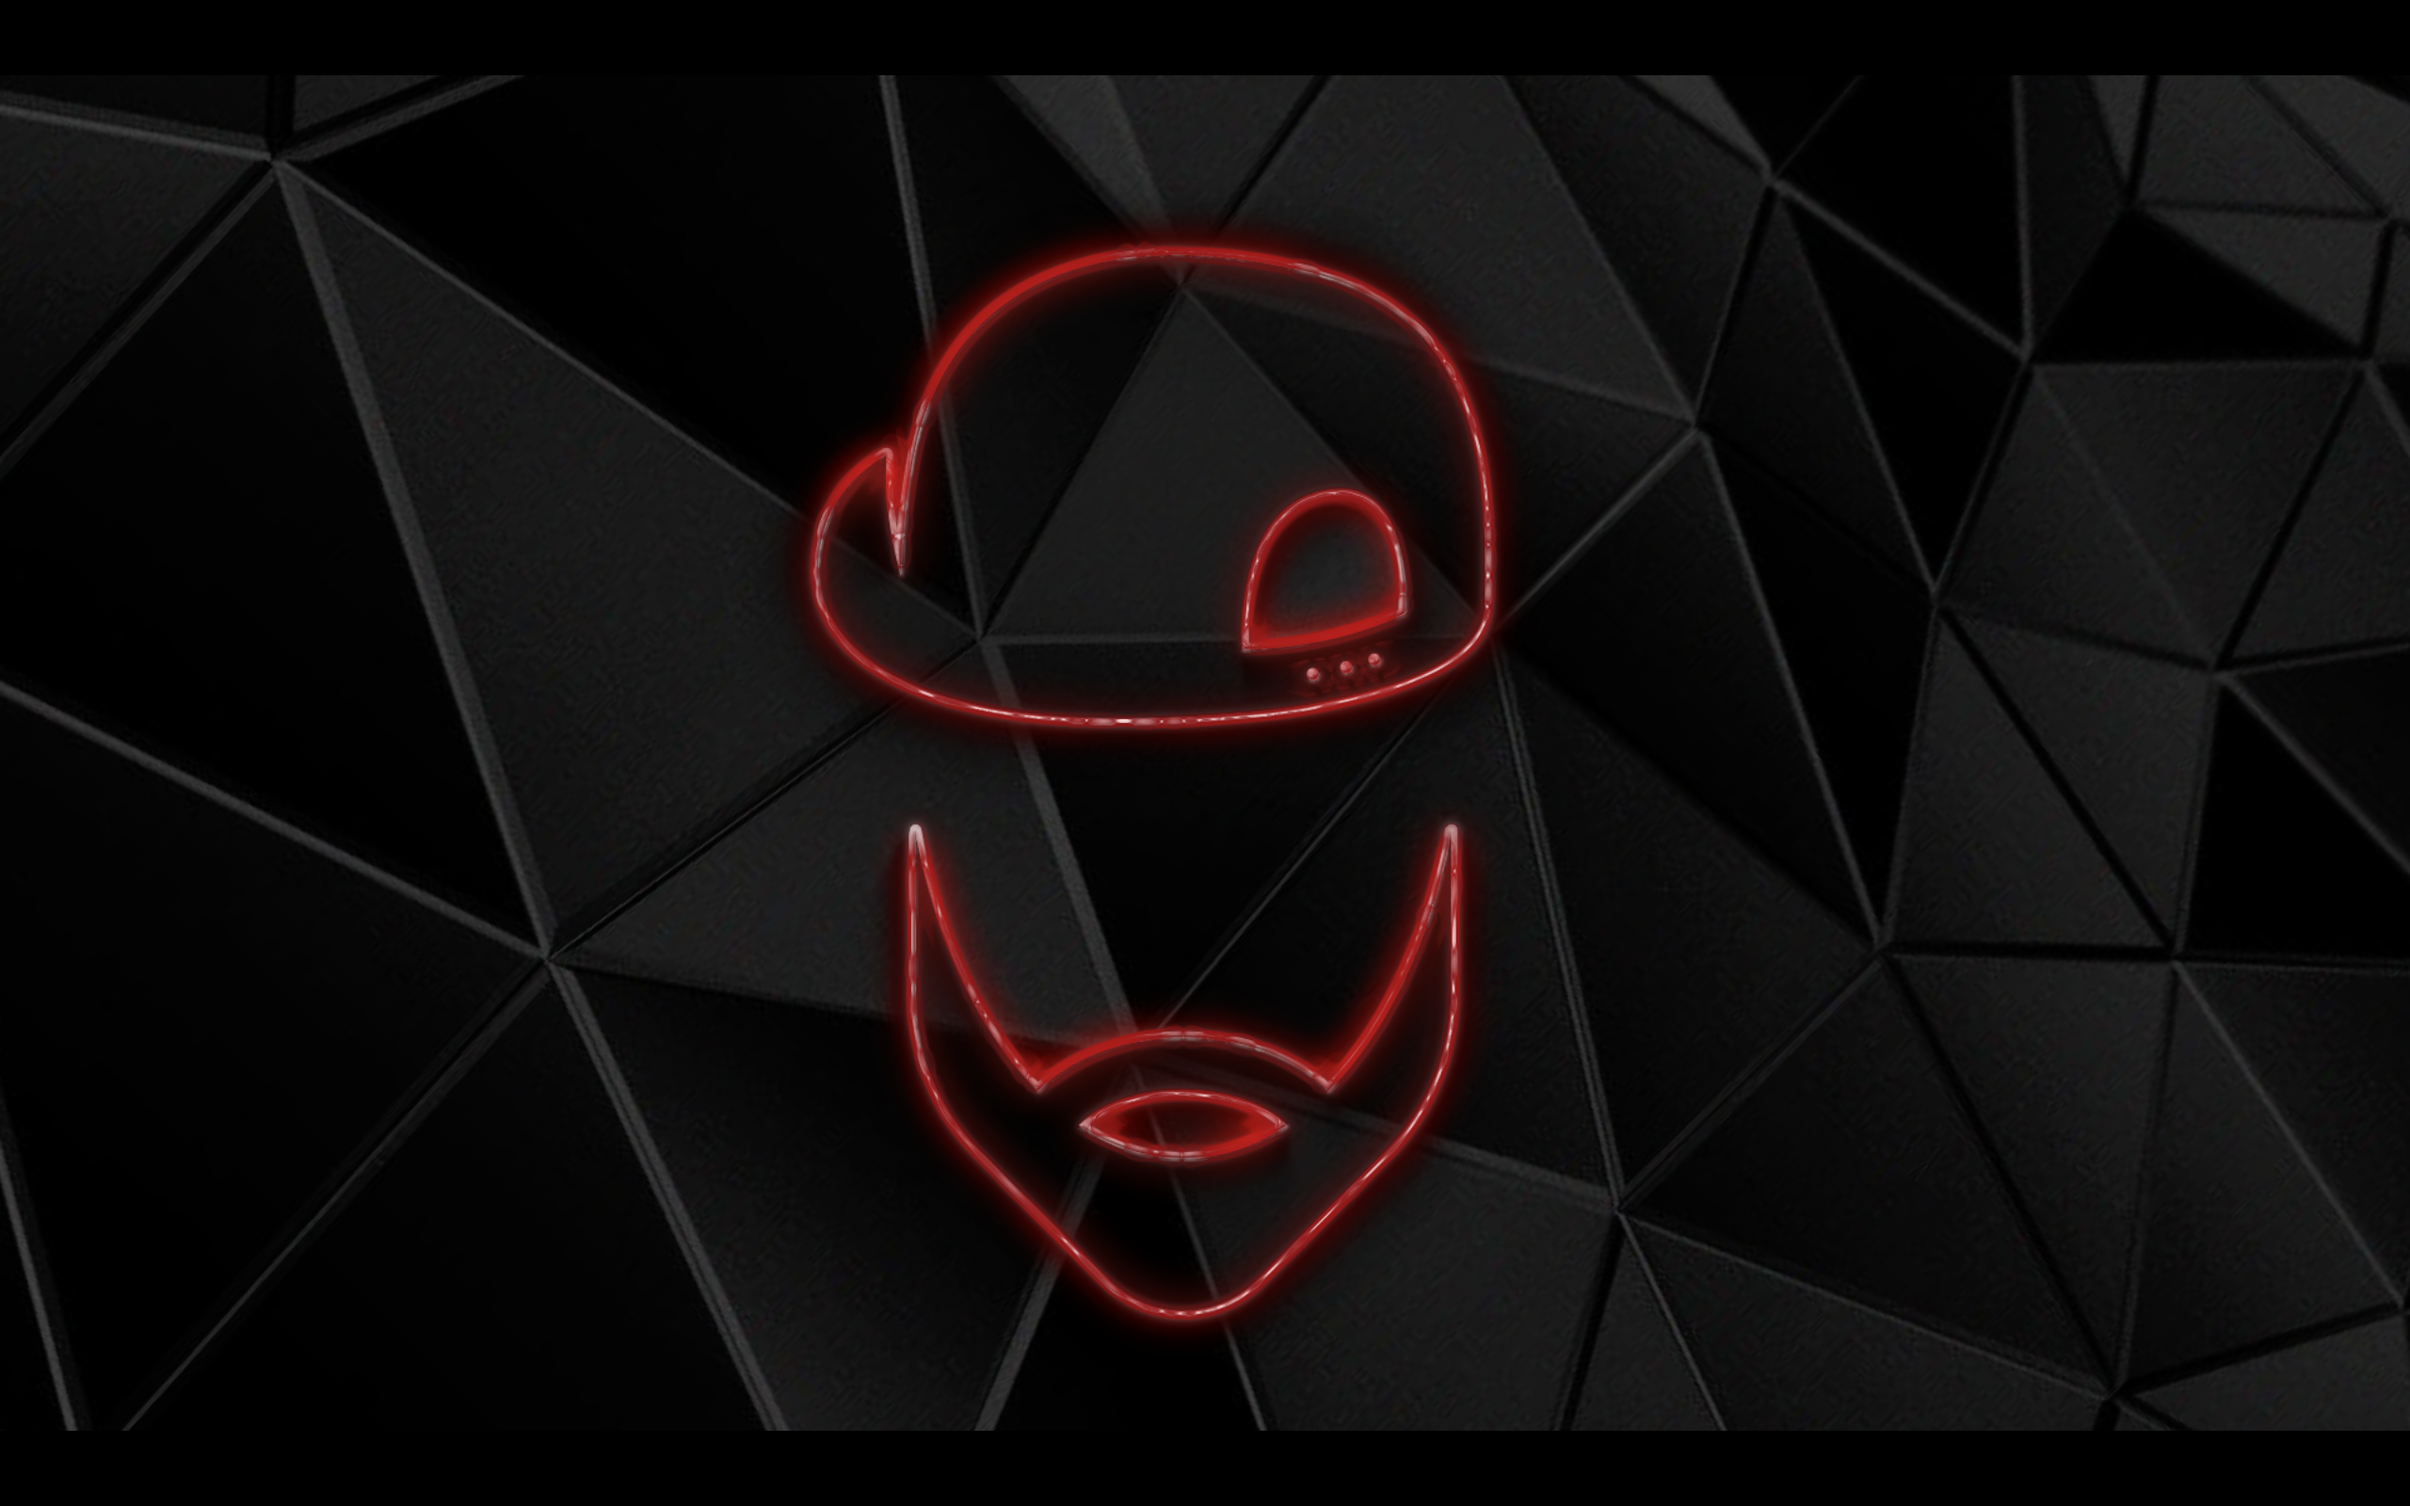
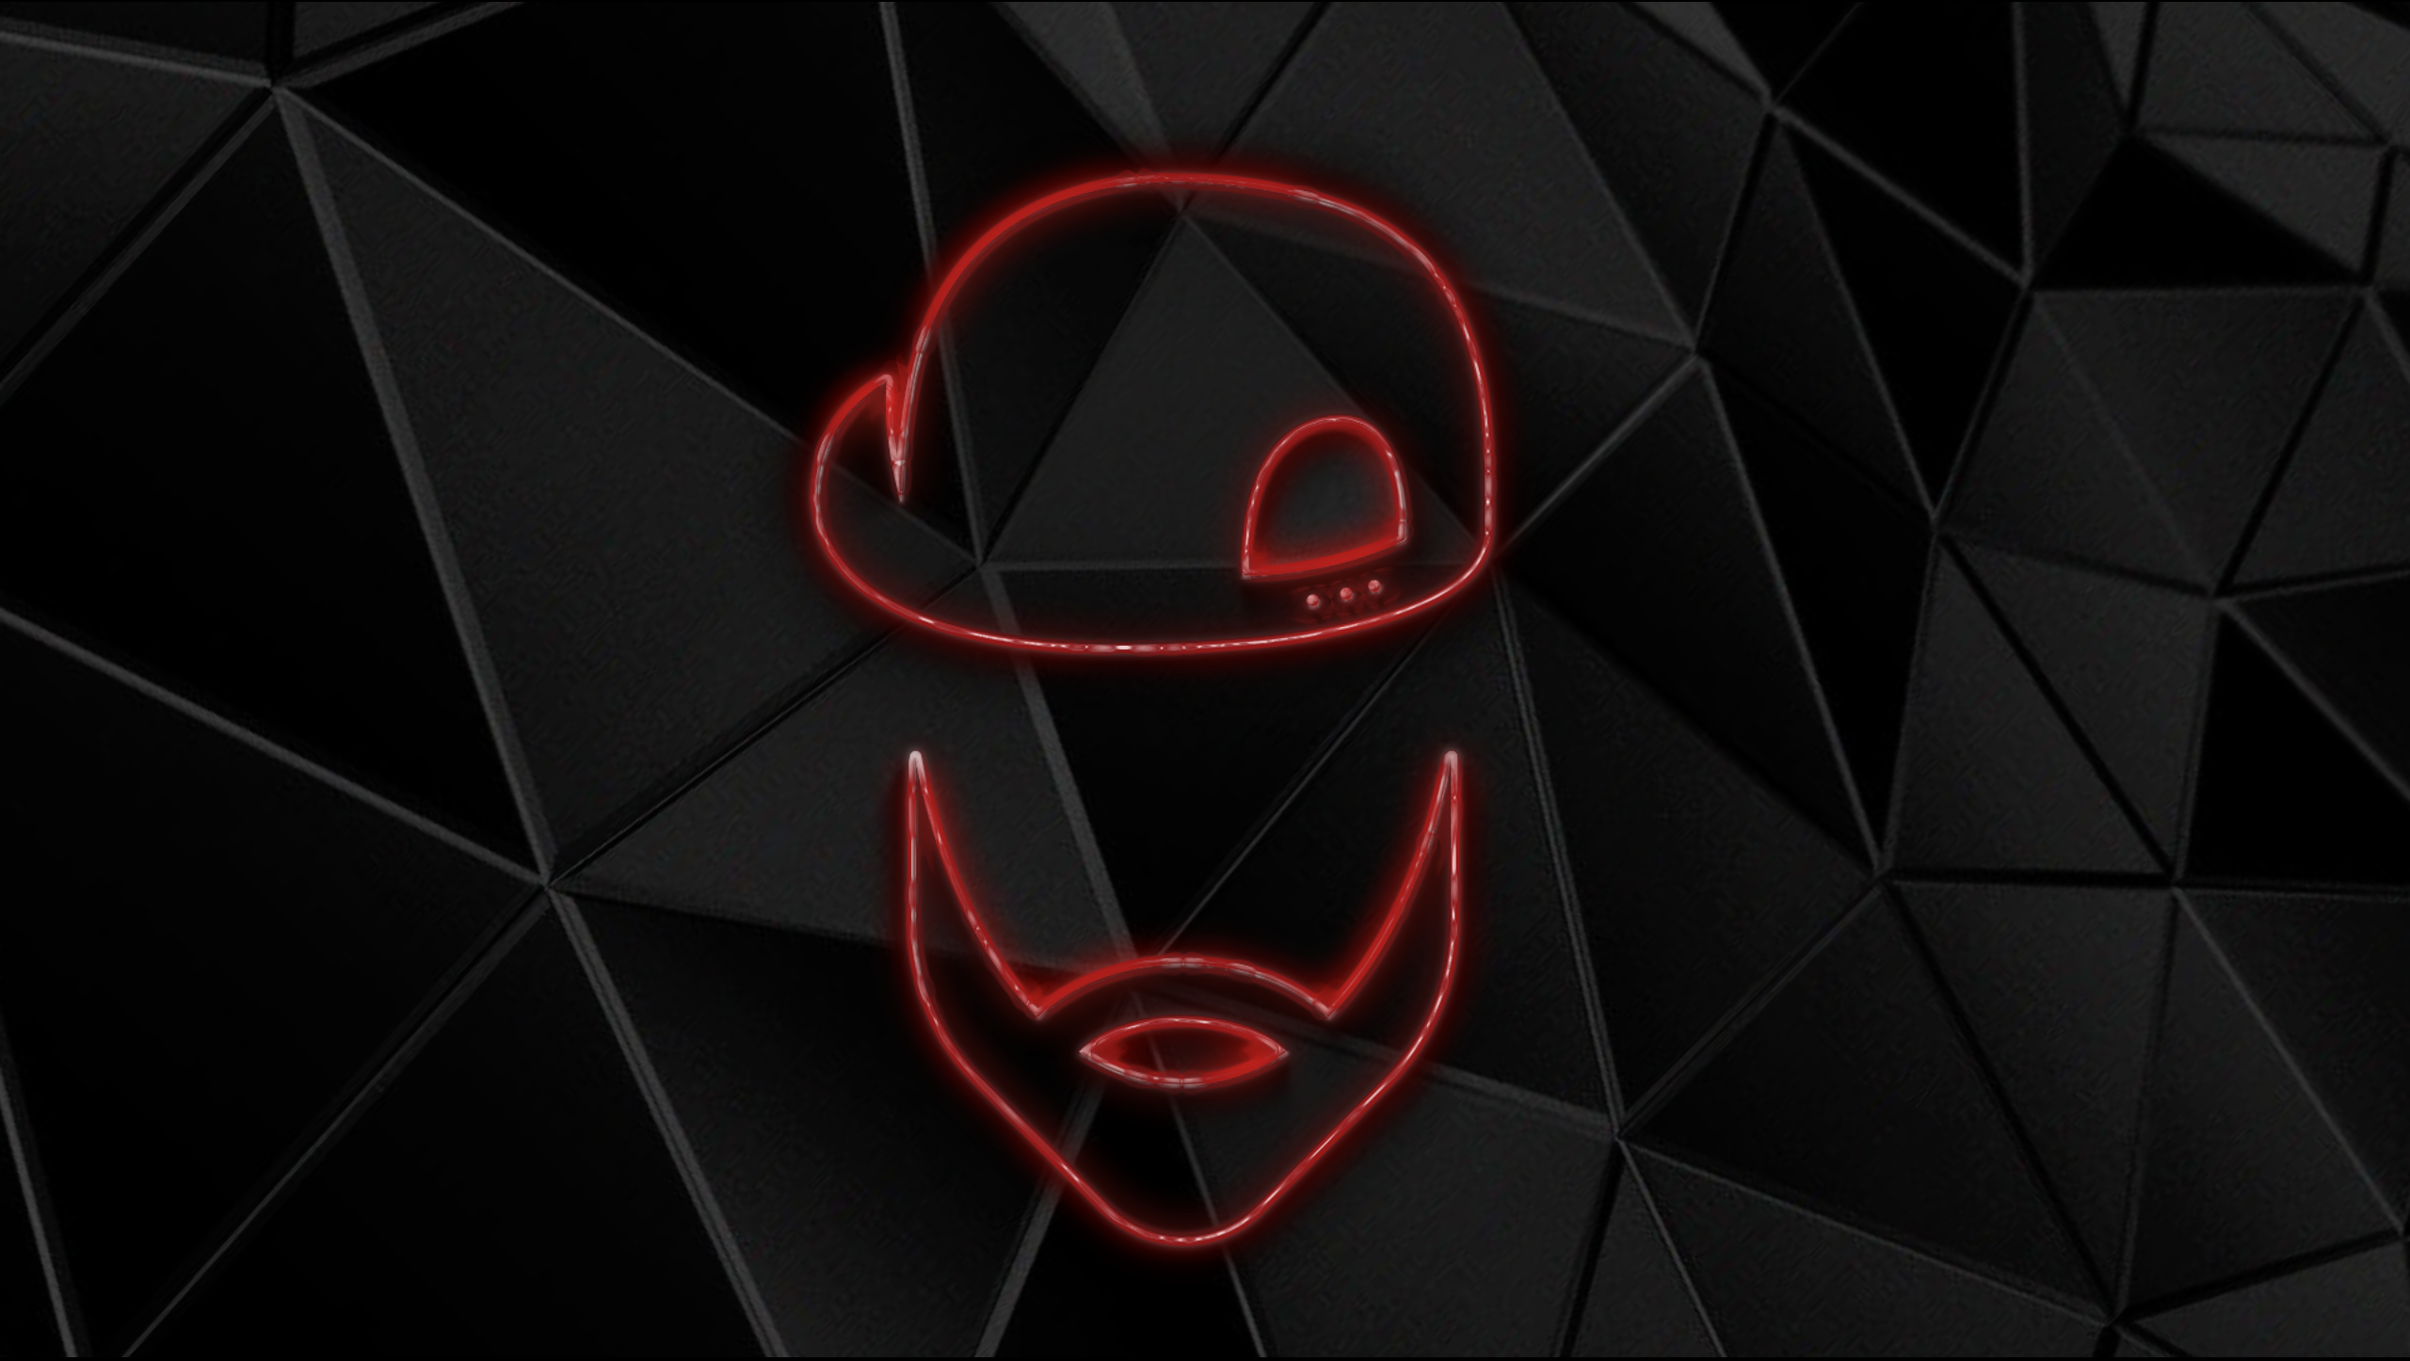
Update stinger

diff --git a/portfolio.html b/portfolio.html
@@ -70,10 +70,12 @@
                     <hr class="small">
                     
                     <div class="row">
-                         <div class="col-sm-10">
+                        <div class="col-sm-3">
+                        </div> 
+                        <div class="col-sm-6">
                             <div class="portfolio-item">
                                 <a href="img/31.webm">
-                                    <img class="img-portfolio img-responsive" src="img/31.jpg">
+                                    <img class="img-portfolio img-responsive" src="img/31.png">
                                     <div class="caption">
                                         <p>This is transition video for a Twitch account.</p>
                                     </div>
